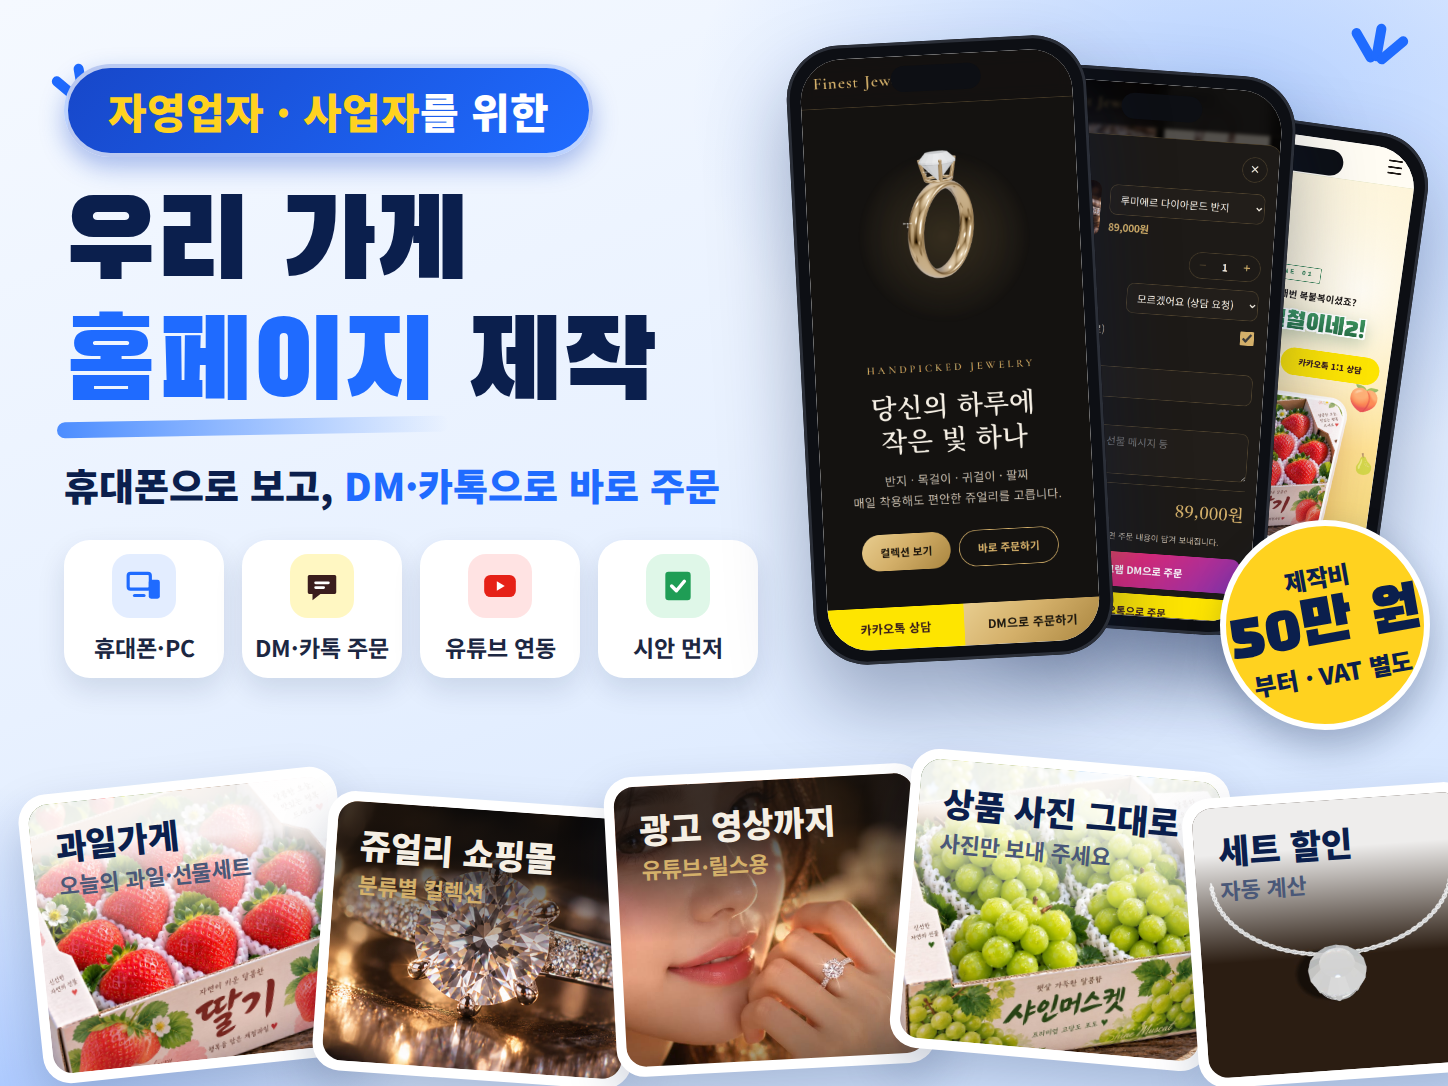
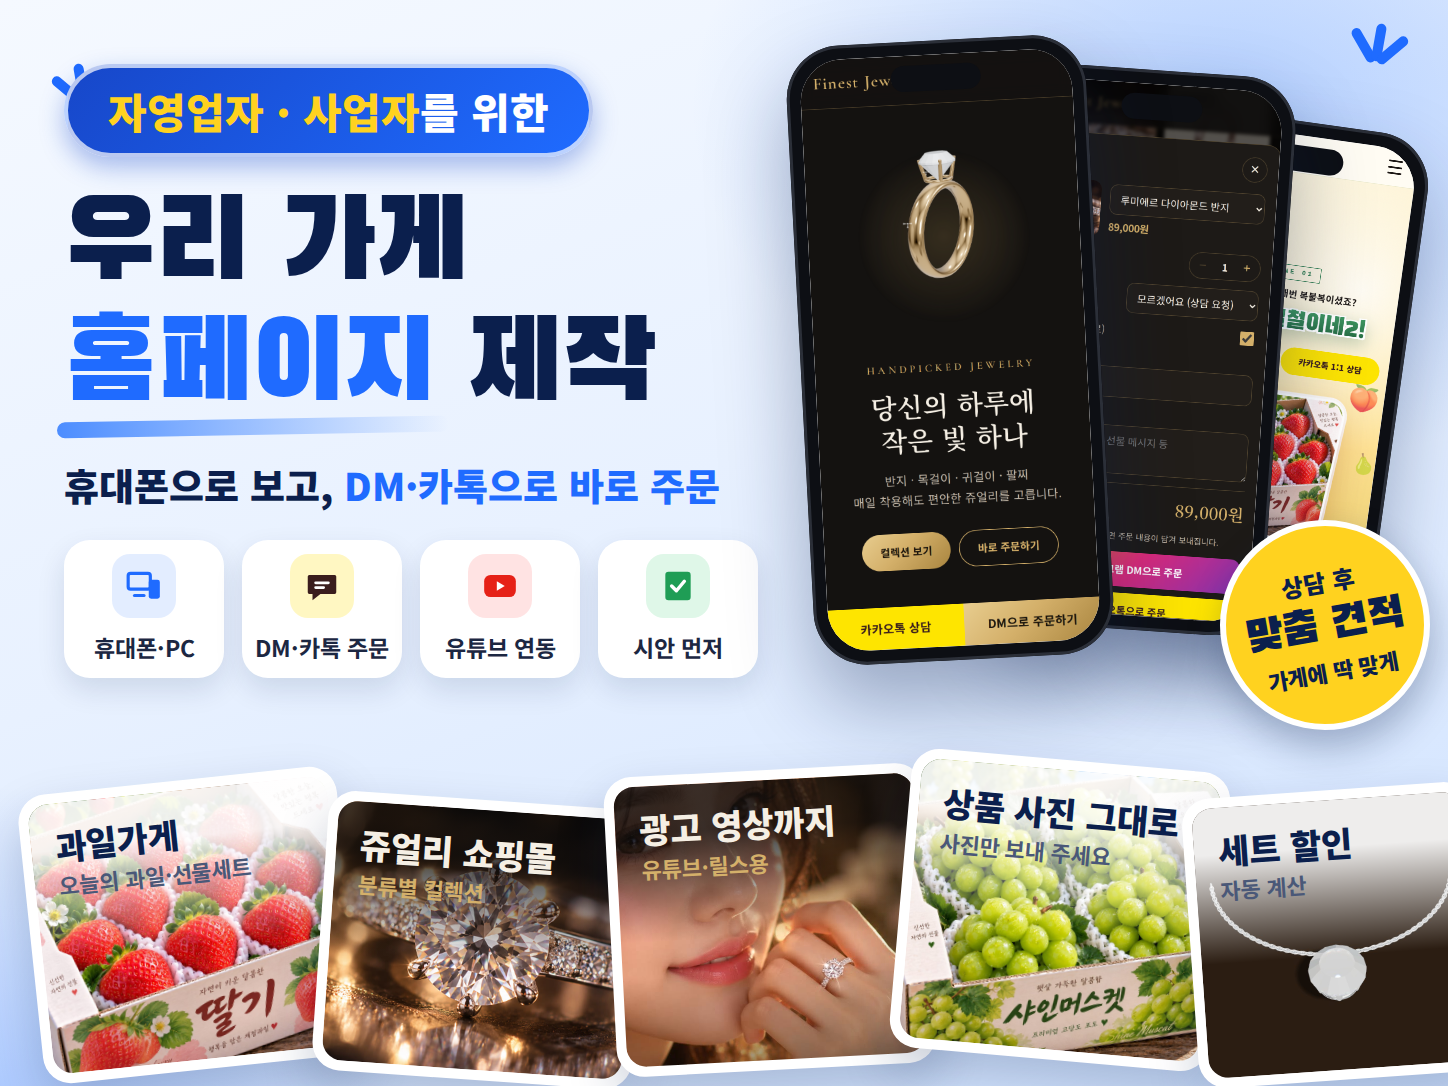
제작 가격 비공개: 홈페이지·카드뉴스에서 금액을 빼고 '상담 후 맞춤 견적'으로
- 첫 화면: 스티커 '상담 후 맞춤 견적', 가격 구역 → '제작 상품'(상품별 제작 기간·수정 횟수), 견적 문의 버튼, 설명·공유 문구에서 금액 삭제, 가격표 링크 삭제
- 카드뉴스: 배너 스티커와 5장('제작 상품' + 제작 기간)을 다시 뽑음
- pricing/ 가격표 페이지는 그대로 두되 어디에서도 연결하지 않음 (원래 검색 제외 설정)

Claude-Session: https://claude.ai/code/session_018yJiFGJgxk1DkdrAWT39yC

Changed region(s): [[0.8391, 0.5166, 0.9945, 0.6381]]

diff --git a/index.html b/index.html
@@ -5,11 +5,11 @@
 <!-- 첫 화면: 홈페이지 제작 서비스 소개 (카드뉴스·배너와 같은 디자인) · 과일철이네2 시안은 preview/ 에 있습니다 -->
 <meta name="viewport" content="width=device-width, initial-scale=1.0, viewport-fit=cover" />
 <title>우리 가게 홈페이지 제작 | 휴대폰으로 보고 DM·카톡으로 바로 주문</title>
-<meta name="description" content="자영업자·사업자를 위한 홈페이지 제작. 휴대폰·PC 맞춤, DM·카톡 주문서, 유튜브 연동. 결제 전에 시안부터 확인하세요. 제작비 50만 원부터(VAT 별도)." />
+<meta name="description" content="자영업자·사업자를 위한 홈페이지 제작. 휴대폰·PC 맞춤, DM·카톡 주문서, 유튜브 연동. 결제 전에 시안부터 확인하세요. 가게에 맞춰 견적을 드립니다." />
 <meta name="theme-color" content="#1f6bff" />
 <meta property="og:type" content="website" />
 <meta property="og:title" content="우리 가게 홈페이지 제작" />
-<meta property="og:description" content="휴대폰으로 보고, DM·카톡으로 바로 주문받는 홈페이지. 제작비 50만 원부터(VAT 별도)." />
+<meta property="og:description" content="휴대폰으로 보고, DM·카톡으로 바로 주문받는 홈페이지. 결제 전에 시안부터 확인하세요." />
 <meta property="og:image" content="https://okaissem.github.io/cardnews/00-banner.png" />
 <meta property="og:url" content="https://okaissem.github.io/" />
 <link rel="canonical" href="https://okaissem.github.io/" />
@@ -124,12 +124,12 @@
   }
   .sticker .big { font-family: var(--display); font-weight: 400; line-height: 1; }
   .hero-art .sticker { width: 190px; height: 190px; right: -6px; bottom: 30px; font-size: 20px; }
-  .hero-art .sticker .big { font-size: 52px; }
+  .hero-art .sticker .big { font-size: 40px; margin: 4px 0; }
   @media (max-width: 900px) {
     .hero .wrap { grid-template-columns: 1fr; }
     .hero-art { height: 520px; max-width: 520px; width: 100%; margin: 10px auto 0; }
     .hero-art .sticker { width: 150px; height: 150px; font-size: 16px; }
-    .hero-art .sticker .big { font-size: 40px; }
+    .hero-art .sticker .big { font-size: 31px; }
   }
   @media (max-width: 520px) {
     .chips { grid-template-columns: repeat(2, 1fr); gap: 10px; }
@@ -289,7 +289,7 @@
     <nav class="nav" aria-label="메뉴">
       <a href="#works">제작 사례</a>
       <a href="#order">주문 기능</a>
-      <a href="#price">가격</a>
+      <a href="#price">제작 상품</a>
       <a href="#process">진행 순서</a>
       <a href="#contact">문의</a>
     </nav>
@@ -320,7 +320,7 @@
         <div class="phone p3"><div class="screen"><img src="cardnews/src/shots/fruit-m.png" alt="" /></div></div>
         <div class="phone p2"><div class="screen"><img src="cardnews/src/shots/jw-m-order.png" alt="" style="object-position:50% 20%" /></div></div>
         <div class="phone p1"><div class="screen"><img src="cardnews/src/shots/jw-m.png" alt="" /></div></div>
-        <div class="sticker"><span>제작비</span><span class="big">50만 원</span><span>부터 · VAT 별도</span></div>
+        <div class="sticker"><span>상담 후</span><span class="big">맞춤 견적</span><span>가게에 딱 맞게</span></div>
       </div>
     </div>
   </section>
@@ -416,17 +416,18 @@
   <!-- 가격 -->
   <section class="reveal" id="price">
     <div class="wrap center">
-      <p class="kicker">결제 전에 시안 먼저 보세요</p>
-      <h2 class="display title">제작 <span class="hl">가격</span></h2>
+      <p class="kicker">가게에 맞춰 골라 보세요</p>
+      <h2 class="display title">제작 <span class="hl">상품</span></h2>
       <div class="plans">
-        <div class="plan"><b>기본형</b><div class="price">50<small>만 원</small></div><div class="meta">제작 7일 · 수정 2회</div>
+        <div class="plan"><b>기본형</b><div class="price">7<small>일 제작</small></div><div class="meta">수정 2회</div>
           <ul><li>한 페이지 홈페이지</li><li>휴대폰·PC 화면 모두 대응</li><li>가게 소개·위치·전화 연결</li></ul></div>
-        <div class="plan best"><span class="tag">가장 많이 선택</span><b>표준형</b><div class="price">90<small>만 원</small></div><div class="meta">제작 10~14일 · 수정 3회</div>
+        <div class="plan best"><span class="tag">가장 많이 선택</span><b>표준형</b><div class="price">10~14<small>일 제작</small></div><div class="meta">수정 3회</div>
           <ul><li>기본형 내용 전부</li><li>상품(메뉴) 소개 20개 이내</li><li>움직이는 화면 효과</li><li>카카오톡 상담 버튼</li><li>네이버·구글 검색 등록</li></ul></div>
-        <div class="plan"><b>프리미엄</b><div class="price">150<small>만 원</small></div><div class="meta">제작 14~21일 · 수정 5회</div>
+        <div class="plan"><b>프리미엄</b><div class="price">14~21<small>일 제작</small></div><div class="meta">수정 5회</div>
           <ul><li>표준형 내용 전부</li><li>여러 페이지 구성</li><li>홍보영상(쇼츠) 1편 제작</li><li>유튜브·SNS 연동 전체 포함</li></ul></div>
       </div>
-      <p class="price-note">※ 모든 금액 VAT 별도 · 유튜브·SNS 연동, 1년 관리 패키지는 <a href="pricing/" style="color:var(--blue);font-weight:900">자세한 가격표</a>에서 확인하세요.</p>
+      <p class="price-note">가격은 가게 규모와 필요한 기능에 따라 달라요. 사진과 원하시는 내용을 보내 주시면 <b style="color:var(--navy)">맞춤 견적</b>을 드립니다.<br />유튜브·SNS 연동, 1년 관리도 함께 상담해 드려요.</p>
+      <a class="btn btn-blue" href="#contact" style="margin-top:18px">견적 문의하기</a>
     </div>
   </section>
 
@@ -459,7 +460,7 @@
 
 <footer class="footer">
   <p class="logo">우리가게<span style="color:var(--blue)">홈페이지</span></p>
-  <p>자영업자·사업자를 위한 홈페이지 제작 · 모든 금액 VAT 별도</p>
+  <p>자영업자·사업자를 위한 홈페이지 제작 · 상담 후 맞춤 견적</p>
 </footer>
 
 <div class="bottom-bar">

diff --git a/cardnews/src/cardnews.html b/cardnews/src/cardnews.html
@@ -166,9 +166,9 @@
   <div class="phone" style="left:800px;top:40px;width:300px;height:620px;transform:rotate(-3deg)"><div class="screen"><img src="shots/jw-m.png" alt="" /></div></div>
 
   <div class="sticker" style="left:1220px;top:520px;width:210px;height:210px;transform:rotate(-10deg)">
-    <span style="font-size:24px">제작비</span>
-    <span class="big" style="font-size:62px">50만 원</span>
-    <span style="font-size:24px">부터 · VAT 별도</span>
+    <span style="font-size:24px">상담 후</span>
+    <span class="big" style="font-size:44px;margin:6px 0">맞춤 견적</span>
+    <span style="font-size:22px">가게에 딱 맞게</span>
   </div>
 
   <!-- 아래 사진 카드 -->
@@ -251,14 +251,14 @@
   <div class="page">5 / 5</div>
   <div class="top">
     <p class="kicker">결제 전에 시안 먼저 보세요</p>
-    <h2 class="display" style="font-size:92px">제작 <span class="hl">가격</span></h2>
+    <h2 class="display" style="font-size:92px">제작 <span class="hl">상품</span></h2>
   </div>
   <div class="plans" style="top:330px">
-    <div class="plan"><div><b>기본형</b><span>한 페이지 · 제작 7일 · 수정 2회</span></div><div class="price">50<small>만 원</small></div></div>
-    <div class="plan best"><span class="tag">가장 많이 선택</span><div><b>표준형</b><span>상품 20개 · 카톡 버튼 · 검색 등록</span></div><div class="price">90<small>만 원</small></div></div>
-    <div class="plan"><div><b>프리미엄</b><span>여러 페이지 · 홍보영상 1편 · SNS 전체</span></div><div class="price">150<small>만 원</small></div></div>
+    <div class="plan"><div><b>기본형</b><span>한 페이지 · 휴대폰·PC · 수정 2회</span></div><div class="price">7<small>일 제작</small></div></div>
+    <div class="plan best"><span class="tag">가장 많이 선택</span><div><b>표준형</b><span>상품 20개 · 카톡 버튼 · 검색 등록</span></div><div class="price">10~14<small>일</small></div></div>
+    <div class="plan"><div><b>프리미엄</b><span>여러 페이지 · 홍보영상 1편 · SNS 전체</span></div><div class="price">14~21<small>일</small></div></div>
   </div>
-  <p style="position:absolute;left:80px;right:80px;top:910px;font-size:24px;color:var(--soft);font-weight:500">※ 모든 금액 VAT 별도 · 유튜브·SNS 연동은 옵션으로 추가할 수 있어요</p>
+  <p style="position:absolute;left:80px;right:80px;top:910px;font-size:24px;color:var(--soft);font-weight:500">※ 가격은 가게 규모·기능에 맞춰 상담 후 안내해 드려요 · 오른쪽은 제작 기간</p>
   <div class="cta" style="top:990px">
     <b>사진만 보내 주세요</b>
     <span>시안을 먼저 보고 <em>마음에 들면 결제</em>하시면 됩니다.<br />DM으로 편하게 문의 주세요.</span>

diff --git a/cardnews/README.md b/cardnews/README.md
@@ -13,7 +13,7 @@
 2. 디자인 — 업종에 맞춘 디자인 (과일가게 · 쥬얼리 쇼핑몰)
 3. DM 주문 — 누르면 주문서, DM으로 바로
 4. 유튜브 — 영상 보고 바로 주문
-5. 가격 — 기본형 50만 · 표준형 90만 · 프리미엄 150만 원 (VAT 별도, `pricing/` 가격표와 같음)
+5. 제작 상품 — 기본형 · 표준형 · 프리미엄과 제작 기간 (가격은 공개하지 않고 "상담 후 맞춤 견적")
 
 ## 문구·가격 고치기
 
